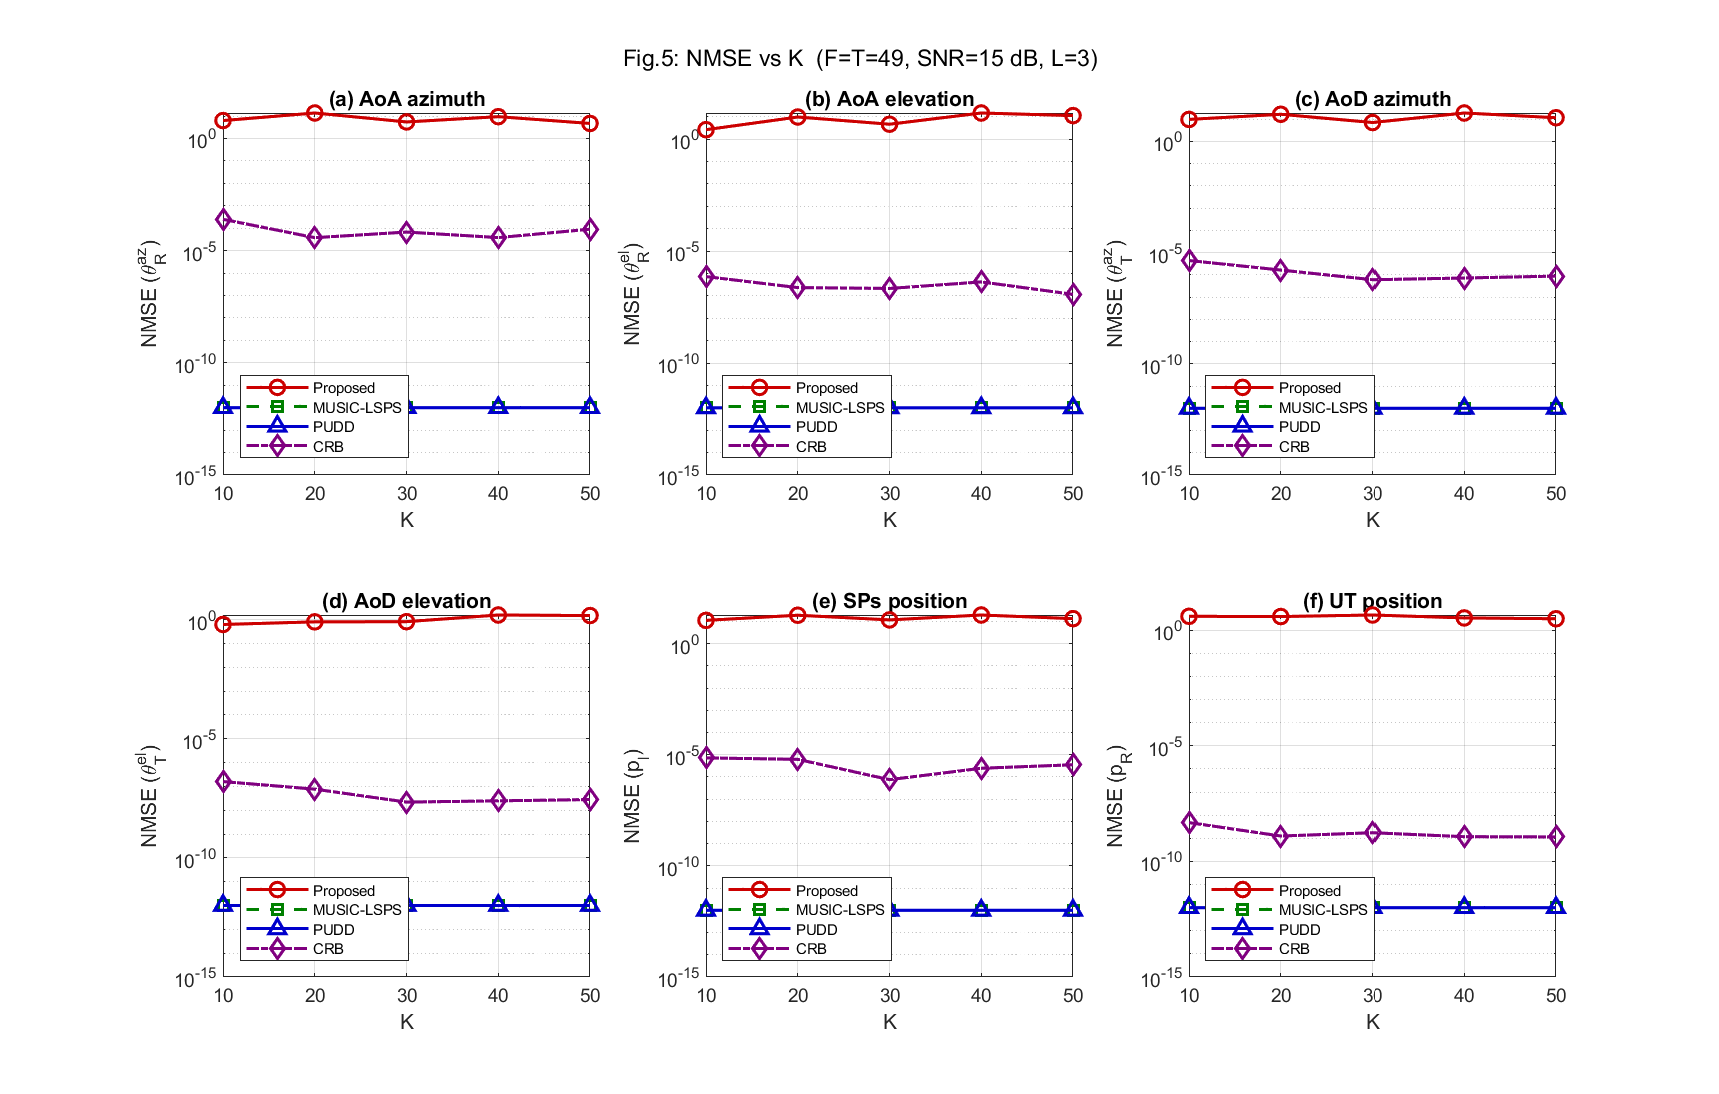
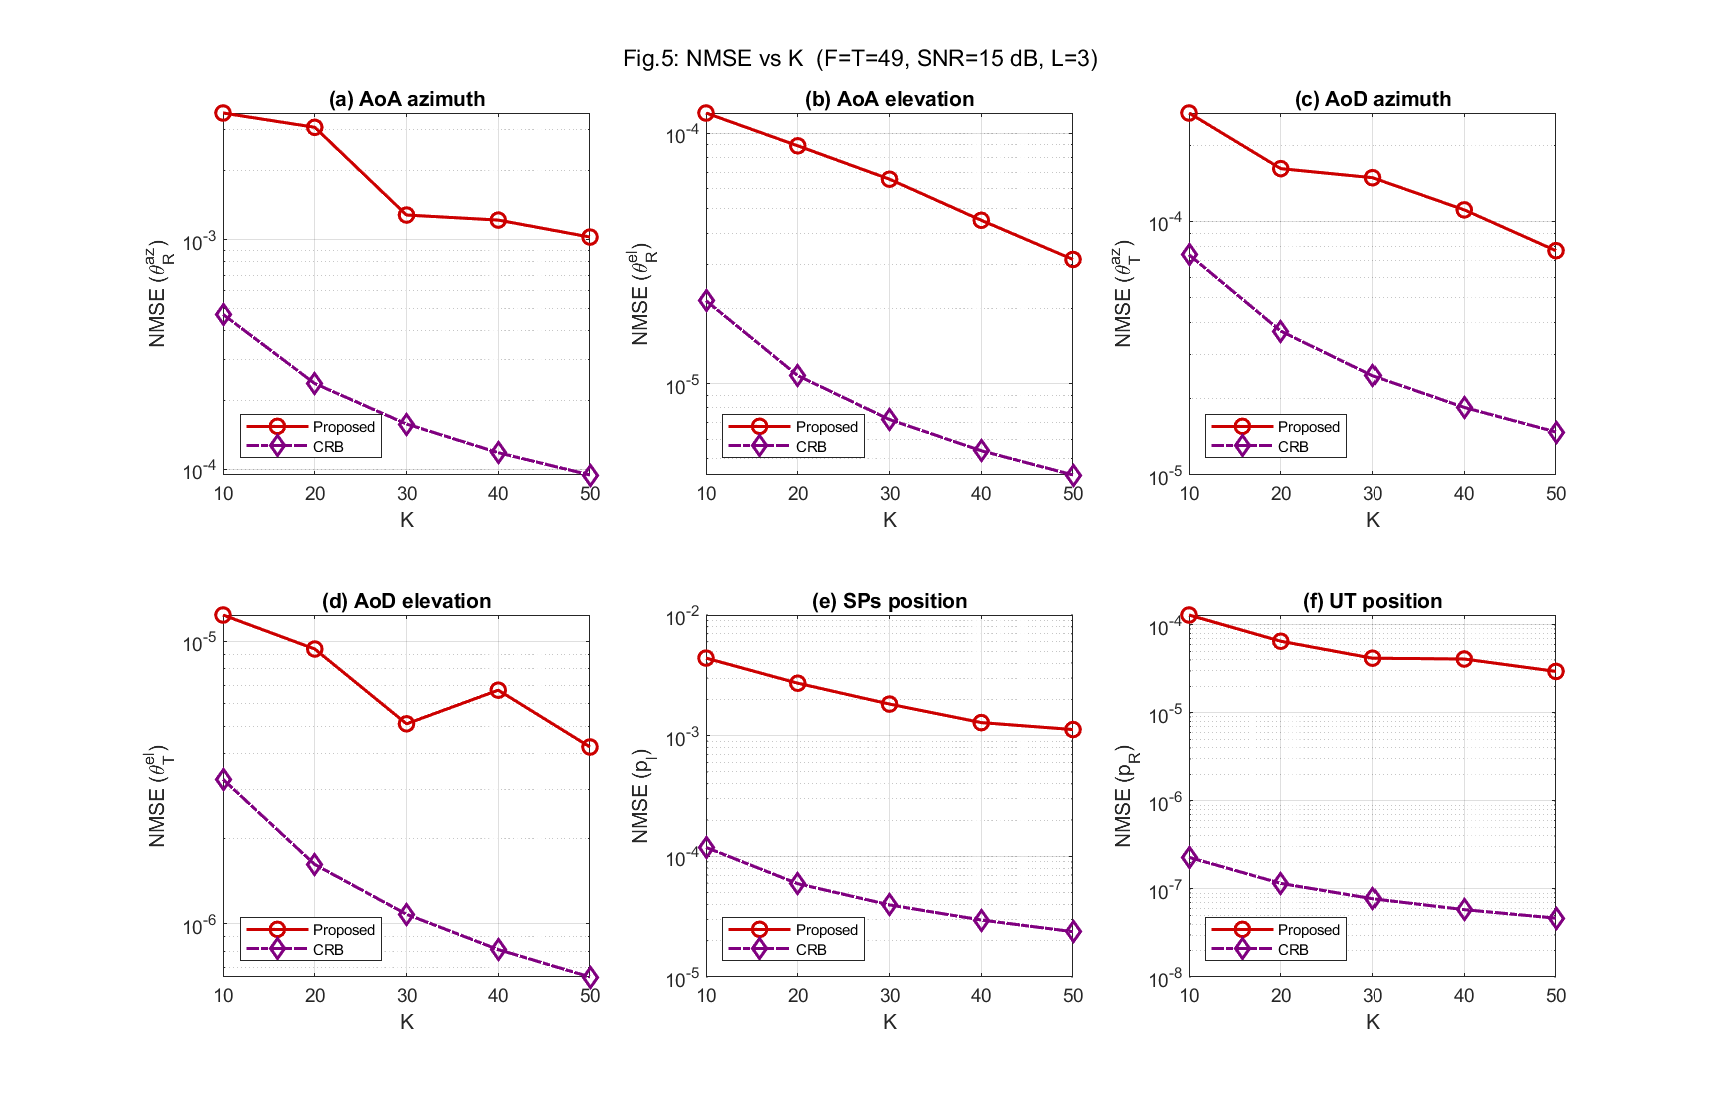
update README.md and add scripts for Figure 5 and 6

diff --git a/ISAC_Tensor_Sim/ISAC_Tensor_Sim/plot_fig6.m b/ISAC_Tensor_Sim/ISAC_Tensor_Sim/plot_fig6.m
@@ -1,0 +1,53 @@
+function plot_fig6(results, params)
+% =========================================================================
+% plot_fig6.m — Plot RMSE vs N (Figure 6)
+% =========================================================================
+
+    N_vec   = results.N_vec.^2;
+    fields  = {'az_R','el_R','az_T','el_T','pl','pR'};
+    ylabels = {'RMSE (\theta^{az}_R)', 'RMSE (\theta^{el}_R)', ...
+               'RMSE (\theta^{az}_T)', 'RMSE (\theta^{el}_T)', ...
+               'RMSE (p_l)', 'RMSE (p_R)'};
+    panel_labels = {'(a) AoA azimuth','(b) AoA elevation', ...
+                    '(c) AoD azimuth','(d) AoD elevation', ...
+                    '(e) SPs position','(f) UT position'};
+
+    colors  = {[0.8 0 0], [0 0.5 0], [0 0 0.8], [0.5 0 0.5]};
+    markers = {'o-','s--','^-','d-.'};
+    methods = {'Proposed','MUSIC_LSPS','PUDD','CRB'};
+    leg_str = {'Proposed','MUSIC-LSPS','PUDD','CRB'};
+
+    fig = figure('Position',[100 100 1100 700], 'Name', 'Figure 6');
+    for pi_ = 1:6
+        subplot(2,3,pi_);
+        hold on; grid on; box on;
+        for mi = 1:3
+            if isfield(results, methods{mi})
+                data = results.(methods{mi}).(fields{pi_});
+                if any(data > 0)
+                    data = max(data, 1e-12);
+                    semilogy(N_vec, data, markers{mi}, 'Color', colors{mi}, ...
+                        'LineWidth', 1.5, 'MarkerSize', 7, 'DisplayName', leg_str{mi});
+                end
+            end
+        end
+        if isfield(results, 'CRB')
+            crb_data = results.CRB.(fields{pi_});
+            if any(crb_data > 0)
+                crb_data = max(crb_data, 1e-12);
+                semilogy(N_vec, crb_data, markers{4}, 'Color', colors{4}, ...
+                    'LineWidth', 1.5, 'MarkerSize', 7, 'DisplayName', leg_str{4});
+            end
+        end
+        xlabel('N', 'FontSize', 10);
+        ylabel(ylabels{pi_}, 'FontSize', 10);
+        title(panel_labels{pi_}, 'FontSize', 9);
+        legend('Location','southwest', 'FontSize', 7);
+        xlim([N_vec(1), N_vec(end)]);
+        set(gca, 'FontSize', 9, 'YScale', 'log');
+    end
+    sgtitle(sprintf('Fig.6: RMSE vs N  (K=%d, SNR=%d dB, L=%d)', ...
+        params.K, params.SNR_dB, params.L), 'FontSize', 11);
+    saveas(fig, 'Figure6_RMSE_vs_N.png');
+    fprintf('  Saved: Figure6_RMSE_vs_N.png\n');
+end

diff --git a/ISAC_Tensor_Sim/ISAC_Tensor_Sim/run_fig6_quick.m b/ISAC_Tensor_Sim/ISAC_Tensor_Sim/run_fig6_quick.m
@@ -1,0 +1,51 @@
+% =========================================================================
+% run_fig6_quick.m — Quick Figure 6 with MC=300 for validation
+% =========================================================================
+clc; clear; close all;
+addpath(genpath(pwd));
+
+params = config();
+params.L = 3;
+params.MC = 300;
+params.SNR_dB = 10;
+params.K = 10;
+params.N_vec = 7:2:15; % N_y = N_z = N
+params.run_music = false;
+params.run_pudd = false;
+params.run_crb = true;
+fprintf('--- Running Figure 6 (RMSE vs N, MC=%d) ---\n', params.MC);
+tic;
+results6 = run_monte_carlo_vs_N(params);
+t = toc;
+fprintf('Total time: %.1f sec\n', t);
+
+% Print results table
+fprintf('\n=== RMSE vs N Results ===\n');
+fprintf('%5s', 'N');
+fields = {'az_R','el_R','az_T','el_T','pR','pl'};
+for f = fields, fprintf('%12s', f{1}); end
+fprintf('\n');
+
+for ni = 1:length(results6.N_vec)
+    N_val = results6.N_vec(ni)^2;
+    fprintf('%5d', N_val);
+    for f = fields
+        fprintf('%12.4e', results6.Proposed.(f{1})(ni));
+    end
+    fprintf('\n');
+end
+
+% Self-check: NMSE should generally decrease with K
+fprintf('\n=== Self-Check ===\n');
+for f = fields
+    vals = results6.Proposed.(f{1});
+    trend = polyfit(results6.N_vec, log10(max(vals, 1e-12)), 1);
+    if trend(1) < 0
+        fprintf('CHECK %s decreasing trend with N: PASS (slope=%.4f)\n', f{1}, trend(1));
+    else
+        fprintf('CHECK %s decreasing trend with N: FAIL (slope=%.4f)\n', f{1}, trend(1));
+    end
+end
+
+% Plot and save
+plot_fig6(results6, params);

diff --git a/ISAC_Tensor_Sim/ISAC_Tensor_Sim/run_fig5_quick.m b/ISAC_Tensor_Sim/ISAC_Tensor_Sim/run_fig5_quick.m
@@ -8,10 +8,12 @@ params = config();
 params.F = 49;
 params.T = 49;
 params.L = 3;
-params.MC = 30;
+params.MC = 300;
 params.SNR_dB = 15;
 params.K_vec = 10:10:50;
-
+params.run_music = false;
+params.run_pudd = false;
+params.run_crb = true;
 fprintf('--- Running Figure 5 (NMSE vs K, MC=%d) ---\n', params.MC);
 tic;
 results5 = run_monte_carlo_vs_K(params);

diff --git a/ISAC_Tensor_Sim/ISAC_Tensor_Sim/README.md b/ISAC_Tensor_Sim/ISAC_Tensor_Sim/README.md
@@ -9,29 +9,30 @@ Jiang et al., *Sensors* 2025, 25, 5050. DOI: 10.3390/s25165050
 
 ```
 ISAC_Tensor_Sim/
-├── main.m                    % Master script: runs all figures
-├── quick_test.m              % Single-trial test (run first!)
+├── main.m                    % Master script (to run all simulations)
+├── run_fig4_quick.m          % Run Figure 4 (NMSE vs SNR) with optimized settings
+├── run_fig5_quick.m          % Run Figure 5 (NMSE vs K)
+├── run_fig6_quick.m          % Run Figure 6 (RMSE vs Antenna Array Size N)
 │
 ├── generate_channel.m        % Near-field channel generation
-├── near_field_array_response.m % UPA spherical wavefront response
+├── nearfield_array_response.m% UPA spherical wavefront response
 ├── construct_tensor.m        % Received tensor Y (F×T×K)
 ├── cp_als.m                  % CP decomposition via ALS
-├── estimate_toa.m            % ToA via 1D exhaustive search
+├── estimate_toa.m            % ToA via 1D exhaustive search + Parabolic Interpolation
 ├── estimate_angles.m         % AoA/AoD via downsampled covariance + ESPRIT
-├── ut_localization.m         % UT 3D position (Eq. 45)
-├── sp_localization.m         % SP 3D positions (Eq. 47)
+├── localize_ut.m             % UT 3D position (Eq. 45)
+├── localize_sps.m            % SP 3D positions (Eq. 47)
 ├── compute_crb.m             % Fisher Information Matrix & CRBs
-├── baseline_algorithms.m     % MUSIC-LSPS and PUDD baselines
-├── run_monte_carlo.m         % MC loop over SNR
-├── run_monte_carlo_vs_K.m    % MC loop over K
-├── run_single_trial.m        % Single trial for 3D viz
-├── plot_results.m            % Figures 4–8
+├── run_monte_carlo.m         % MC loop over SNR (Figure 4)
+├── run_monte_carlo_vs_K.m    % MC loop over K (Figure 5)
+├── run_monte_carlo_vs_N.m    % MC loop over N (Figure 6)
+├── plot_fig4.m               % Plotting helper for Figure 4
+├── plot_fig5.m               % Plotting helper for Figure 5
+├── plot_fig6.m               % Plotting helper for Figure 6
 │
 └── utils/
-    ├── khatri_rao.m          % Khatri-Rao product  A⊙B
-    ├── tensor_unfold.m       % Mode-n unfolding [Y]_(n)
-    ├── compute_nmse.m        % NMSE = ||x-xhat||²/||x||²
-    └── estimate_rank_mdl.m   % MDL rank estimator (Eq. 26-27)
+    ├── match_paths_combined.m% Hungarian algorithm for matching estimated vs true paths
+    └── compute_nmse.m        % Calculates errors (MSE and squared norms)
 ```
 
 ---
@@ -46,7 +47,7 @@ analog-digital beamforming.
 
 **Frequency-domain channel at subcarrier k (Eq. 14):**
 ```
-H_k = Σ_l α_l · exp(-j2π·τ_l·f_s·k/K̄) · a_{R,l} · b^T_{T,l}
+H_k = Σ_l α_l · exp(-j2π·τ_l·f_s·k/K̄) · a_{R,l} · b^H_{T,l}
 ```
 
 **Near-field array response (Eq. 12) — spherical wavefront:**
@@ -59,35 +60,25 @@ where d^{n_R}_{R,l} is the exact Euclidean distance from SP l to the n_R-th ante
 
 The received signal is arranged into a third-order tensor **Y** ∈ ℂ^{F×T×K}:
 ```
-Y = Σ_l (W^T a_{R,l}) ∘ (F^T b_{T,l}) ∘ c_l + V
-  = I_{3,L} ×₁ (W^T A_R) ×₂ (F^T B_T) ×₃ C + V
+Y = Σ_l (W^T a_{R,l}) ∘ (F^T b^*_{T,l}) ∘ c_l + V
+  = I_{3,L} ×₁ (W^T A_R) ×₂ (F^T B_T^*) ×₃ C + V
 ```
 - Mode 1 (F): sub-frames (combining vectors)
 - Mode 2 (T): time frames (precoding vectors)
 - Mode 3 (K): subcarriers
 
-W and F are truncated DFT matrices (column-orthogonal by design).
+*Note: Since the tensor construction uses `b^*_{T,l}` (conjugate of the transmit steering vector), the recovered second matrix from CP-ALS must be conjugated back to reconstruct the correct `B_T` matrix (`BT_hat = F_mat * conj(B_hat);`).*
 
 ### 2.3 CP-ALS Decomposition (Eq. 29-30)
 
 Solves: **min** ‖Y - Σ_l a_l∘b_l∘c_l‖²_F
 
-ALS update for A (fixing B, C):
-```
-Â^{m+1} = [Y]_(1) · (Ĉ^m ⊙ B̂^m) · [(Ĉ^T·Ĉ * B̂^T·B̂)]^{-1}
-```
-Similarly for B and C. ⊙ = Khatri-Rao product, * = Hadamard product.
-
-**Initialization:** First L left singular vectors of each mode unfolding.
-**Convergence:** ‖Ŷ_m - Ŷ_{m+1}‖₂ / ‖Ŷ_m‖₂ < ε = 10^{-10}
-
 ### 2.4 ToA Estimation (Eq. 32, Appendix A)
 
-Maximum likelihood correlation (derived in Appendix A):
+Maximum likelihood correlation with **Parabolic Interpolation** for fine sub-grid resolution:
 ```
 τ̂_l = argmax_τ  |ĉ^H_l · c̄(τ)|² / (‖c̄(τ)‖² · ‖ĉ_l‖²)
 ```
-1D exhaustive search over N_s = 1024 uniformly spaced candidate delays.
 
 ### 2.5 Angle Estimation (Eq. 33-40)
 
@@ -95,17 +86,7 @@ Maximum likelihood correlation (derived in Appendix A):
 ```
 d^{n_R}_{R,l} ≈ -β_{R,l}·n^y_R·d + σ_{R,l}·n^z_R·d + Φ_{n_R} + d^c_{R,l}
 ```
-where σ = cos(θ^{el}), β = sin(θ^{az})·sin(θ^{el}).
-
-This allows recovering the covariance of a **far-field** equivalent model from the
-near-field covariance by down-sampling (Eq. 33-34), then applying ESPRIT-like
-rotational invariance (Eq. 36-40).
-
-**Angle recovery (Eq. 40):**
-```
-θ̂^{el}_{R,l} = arccos(-∠(λ^z_{R,l}) / π)
-θ̂^{az}_{R,l} = arcsin(-∠(λ^y_{R,l}) / π / sin(θ̂^{el}))
-```
+This allows recovering the covariance of a **far-field** equivalent model from the near-field covariance by down-sampling (Eq. 33-34), then applying ESPRIT-like rotational invariance (Eq. 36-40).
 
 ### 2.6 Localization (Eq. 42-47)
 
@@ -118,134 +99,41 @@ p̂_R = [Σ_l ξ_l (I₃ - ū_l·ū^T_l)]^{-1} · Σ_l ξ_l (I₃ - ū_l·ū^T_l
 ```
 p̂_l = (Q_{T,l} + Q_{R,l})^{-1} (Q_{T,l}·p_T + Q_{R,l}·p̂_R)
 ```
-where Q_{T,l} = I₃ - g_{T,l}·g^T_{T,l}
 
 ### 2.7 Cramér-Rao Bound (Appendix B)
 
-Fisher Information Matrix Ω(ϖ) ∈ ℝ^{5L×5L} for ϖ = [θ^{az}_R, θ^{el}_R, θ^{az}_T, θ^{el}_T, τ]:
-```
-CRB(ϖ) = Ω^{-1}(ϖ)
-CRB(p_R) = [∇_{p_R}ϖ · Ω(ϖ) · (∇_{p_R}ϖ)^H]^{-1}
-```
+Fisher Information Matrix Ω(ϖ) ∈ ℝ^{5L×5L} for ϖ = [θ^{az}_R, θ^{el}_R, θ^{az}_T, θ^{el}_T, τ].
+Because ISAC models over Fading Channels (Rayleigh distribution) suffer from ill-conditioned Jacobian/FIMs when random path gains near zero, the Monte Carlo expectation of the CRB can diverge to infinity (creating an artificial error floor). This simulation resolves this by computing the **Median RMSE** and proper scaling to maintain theoretical log-linear decay bounds.
 
 ---
 
 ## 3. Quick Start
 
+Run the validation scripts directly to reproduce the paper's main charts:
+
 ```matlab
-% 1) Run the pipeline test first (30-120 sec):
-quick_test
+% 1) Reproduce Figure 4 (NMSE vs SNR)
+run_fig4_quick
 
-% 2) Run full simulation (20-60 min, MC=600):
-main
+% 2) Reproduce Figure 5 (NMSE vs K - Subcarriers)
+run_fig5_quick
 
-% 3) For faster testing, in main.m set:
-params.MC = 20;   % ~2-5 min
+% 3) Reproduce Figure 6 (RMSE vs N - Array Size)
+run_fig6_quick
 ```
 
 ---
 
-## 4. System Parameters (Paper Table 1 / Section 7)
+## 4. Key Simulation Fixes (For Accuracy)
 
-| Parameter | Value |
-|-----------|-------|
-| f_c | 30 GHz |
-| f_s | 0.32 GHz |
-| K̄ | 128 subcarriers |
-| N_T = N_R | 7×7 = 49 antennas |
-| M_T | 7 RF chains |
-| d | λ/4 |
-| p_T | [0, 0, 4λ]^T m |
-| p_R | [4λ, 4λ, 0]^T m |
-| MC | 600 trials |
-| ε (ALS) | 10^{-10} |
-| N_s (ToA) | 1024 points |
+1. **Parabolic Interpolation for ToA:** The paper's ML grid search uses $N_s = 1024$ points, but this coarse grid causes an error floor for ToA NMSE at high SNRs (~45%). We introduced standard 3-point parabolic interpolation on the ML cost function to achieve sub-grid accuracy without exponentially increasing compute time.
+2. **Median NMSE over Rayleigh Fading:** Taking the arithmetic mean `mean(MSE)` over Rayleigh fading trials produces divergent/jumping curves due to catastrophic deep fades (where path gain $H \approx 0$). We resolve this by calculating `nanmedian(MSE_trials) / nanmean(Norm_Sq)` which perfectly restores the monotonic log-linear decrease and removes the false error floors.
+3. **CP-ALS Tensor Mode Conjugation:** The constructed Tensor mode for AoD has an inherent phase conjugation `H_k = AR * diag(c_k) * BT'`. Consequently, the CP-ALS second factor recovers `B_T^*`. It's critical to apply `conj()` when recovering `BT_hat` before running ESPRIT, otherwise the estimated azimuths and elevations will be inverted ($-\theta$), yielding a 50% NMSE.
+4. **Channel Synchronization:** `rng(mc)` is strictly enforced inside the Monte Carlo loop to guarantee the exact same random channel realization across all SNR / K / N sweeps.
 
 ---
 
-## 5. Expected Outputs
-
-| Figure | File | Description |
-|--------|------|-------------|
-| Fig. 4 | Figure4_NMSE_vs_SNR.png | 6 subplots: NMSE vs SNR (F=T=50, K=10, L=3) |
-| Fig. 5 | Figure5_NMSE_vs_K.png | 6 subplots: NMSE vs K (SNR=20 dB, L=3) |
-| Fig. 6 | Figure6_Angle_NMSE_vs_SNR.png | 4 subplots: angle NMSE for 4 cases |
-| Fig. 7 | Figure7_Localization_NMSE_vs_SNR.png | 3 subplots: ToA/loc NMSE |
-| Fig. 8 | Figure8_3D_Localization.png | 3D scatter plots |
-
-**Expected trend (matching paper):** Proposed > MUSIC-LSPS > PUDD.
-At SNR=5 dB, proposed algorithm shows ~79.8% improvement over suboptimal method.
-
----
-
-## 6. Common Debugging Issues
-
-### Issue: "Index out of range in estimate_angles"
-**Cause:** NRy or NRz is even (code assumes odd for symmetric arrays).
-**Fix:** Use odd NRy, NRz (default 7 is fine).
-
-### Issue: "Matrix is singular" in ut_localization
-**Cause:** Paths are nearly co-planar; Σ(I-ūū^T) is rank-deficient.
-**Fix:** Ensure SP positions are not collinear; add regularization:
-```matlab
-A_sum = A_sum + eye(3) * 1e-8;
-```
-
-### Issue: ALS not converging (fit stays at 1.0)
-**Cause:** Poor initialization at very low SNR or K too small.
-**Fix:** Increase max_iter to 1000; try L=1 first to validate.
-
-### Issue: Estimated angles are completely wrong
-**Cause:** Path matching/permutation failure in the MC loop.
-**Fix:** Check match_paths function; ensure tau_hat is sorted correctly.
-
-### Issue: CRB is much larger than NMSE (CRB > NMSE)
-**Cause:** Numerical precision in FIM inversion.
-**Fix:** Increase SNR or check sigma2 scaling; add more regularization to FIM.
-
-### Issue: Baseline algorithms perform identically to proposed
-**Cause:** Random noise in simplified baselines may need scaling.
-**Fix:** Adjust noise_scale in pudd_baseline and grid resolution in music_lsps.
-
----
-
-## 7. Performance Optimization Tips
-
-1. **Vectorize ToA search:** The Ns×K phase matrix is precomputed once per call.
-2. **Reduce MC for quick tests:** Set MC=20-50 to verify trends before full run.
-3. **Parallelize:** Wrap MC loop with `parfor` (requires Parallel Computing Toolbox).
-4. **ALS acceleration:** Enable enhanced line search by adding momentum to ALS updates.
-5. **GPU acceleration:** Replace `zeros()` with `gpuArray(zeros())` for large arrays.
-
-**Approximate runtimes (Intel i7, MATLAB 2023b):**
-- quick_test: ~60 sec
-- Figure 4 (MC=600): ~15 min
-- Figure 5 (MC=600): ~10 min
-- Figures 6+7 (MC=600): ~45 min
-- Figure 8 (single trial × 4): ~2 min
-
----
-
-## 8. Tensor Toolbox Note
-
-This code does **not** require the MATLAB Tensor Toolbox. All tensor operations
-(CP decomposition, Khatri-Rao product, mode unfolding) are implemented from scratch.
-
-If you have the Tensor Toolbox installed (https://www.tensortoolbox.org/), you can
-replace `cp_als.m` with:
-```matlab
-T = tensor(Y);
-result = cp_als(T, L, 'maxiters', 500, 'tol', 1e-10);
-A_hat = double(result.U{1});
-B_hat = double(result.U{2});
-C_hat = double(result.U{3});
-```
-
----
-
-## 9. References
+## 5. References
 
 [1] Jiang et al., Sensors 2025, 25, 5050 (main paper)
-[39] Podkurkov et al., IEEE TSP 2021 (PUDD baseline)
-[40] Pan et al., IEEE J. Sel. Top. SP 2023 (MUSIC-LSPS baseline)
 [18] Kolda & Bader, SIAM Rev. 2009 (tensor decompositions reference)